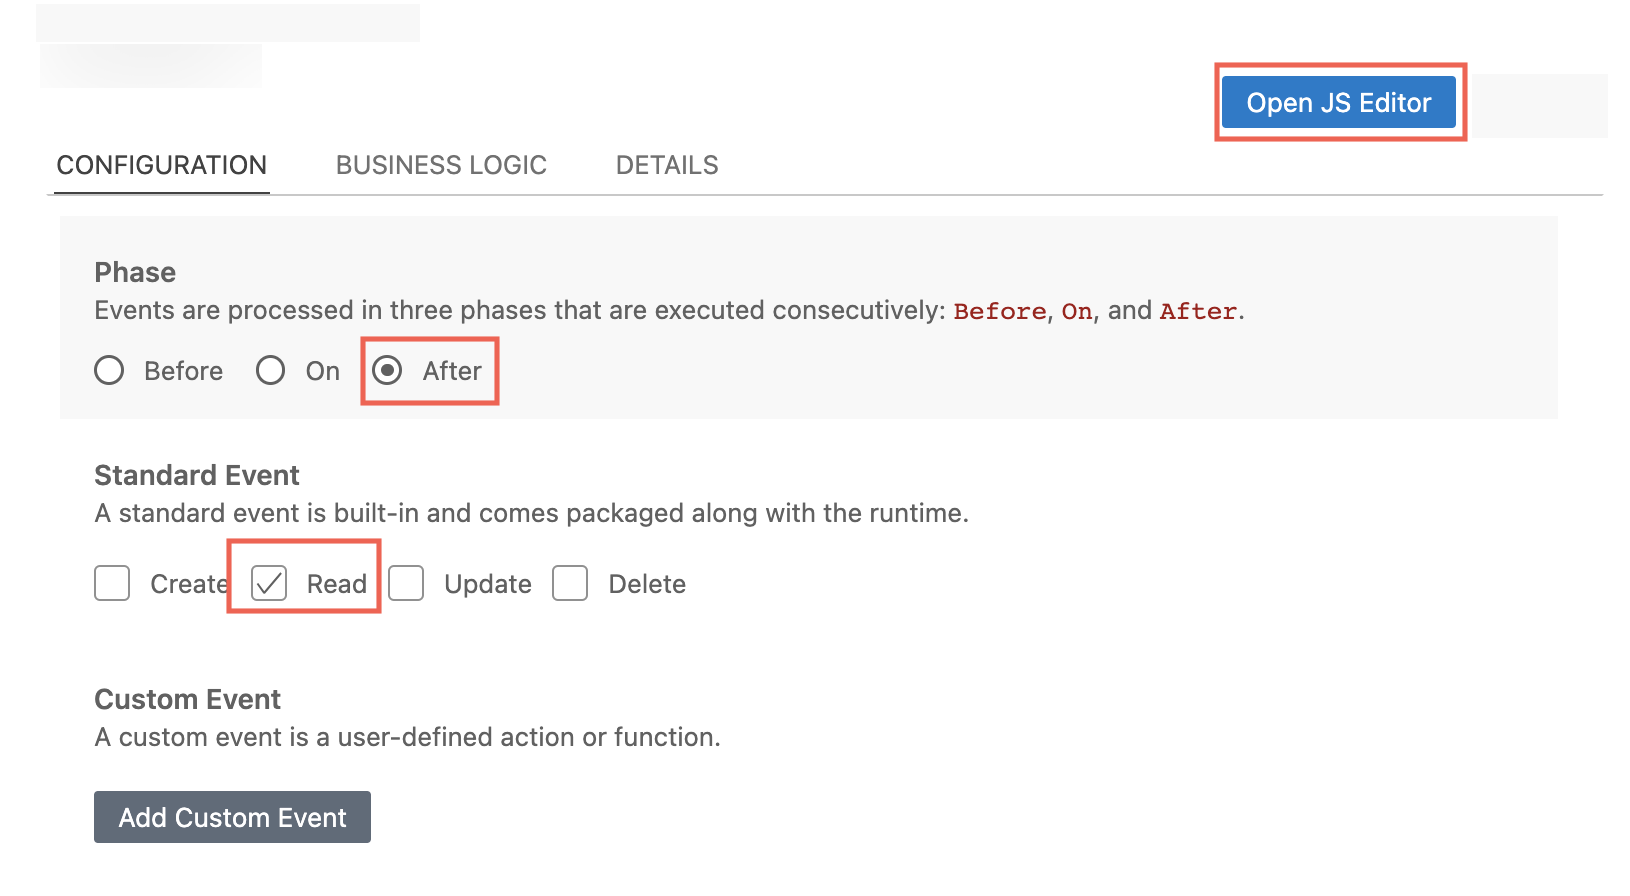
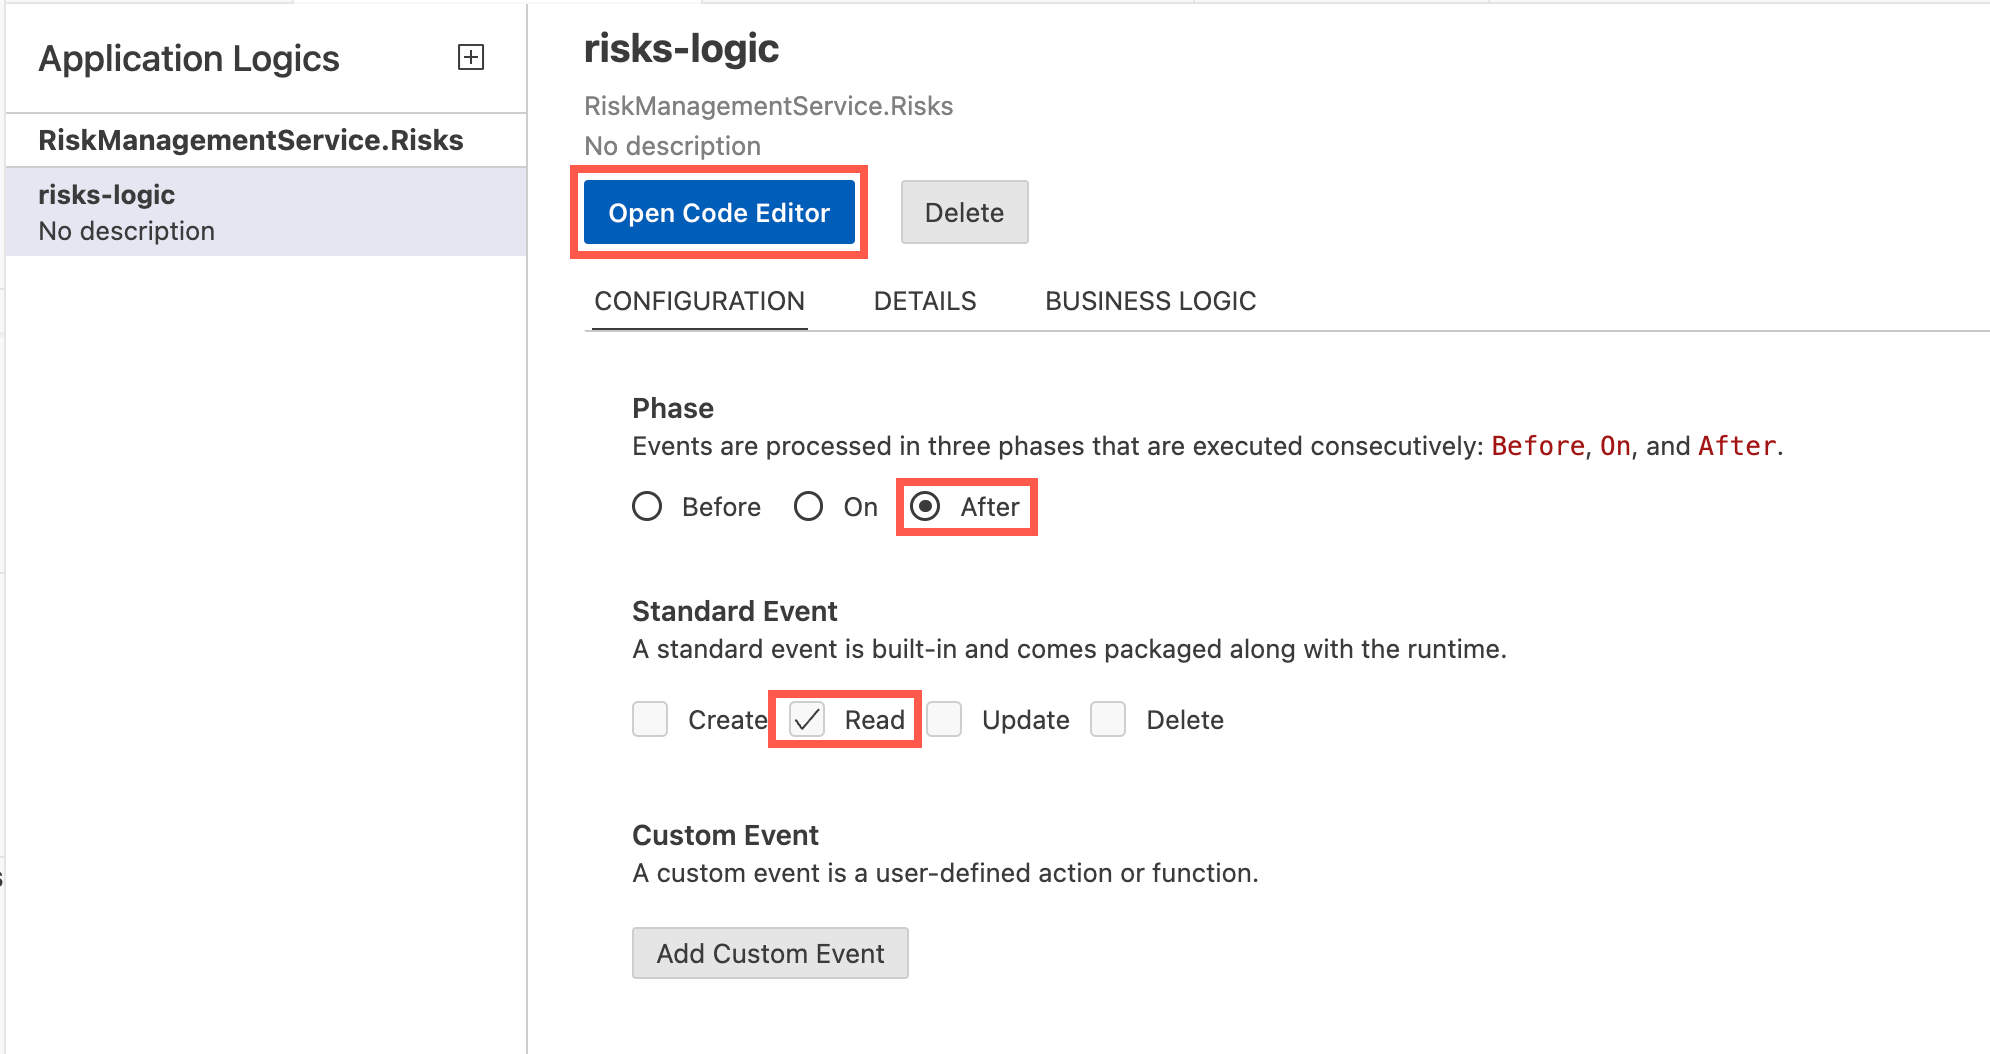
update screenshot

diff --git a/documentation/develop/implement-custom-logic/README.md b/documentation/develop/implement-custom-logic/README.md
@@ -21,7 +21,7 @@ In this section, you will implement the custom logic to define the criticality b
 
     <img src="./images/add_logic.png" width="40%">
 
-3. Now Select **After** in the Phase, **Read** in the Standard Event and choose the **Open JS Editor**.
+3. Now Select **After** in the Phase, **Read** in the Standard Event and choose the **Open Code Editor**.
 
     <img src="./images/logic_editor.png" width="40%">    
 
